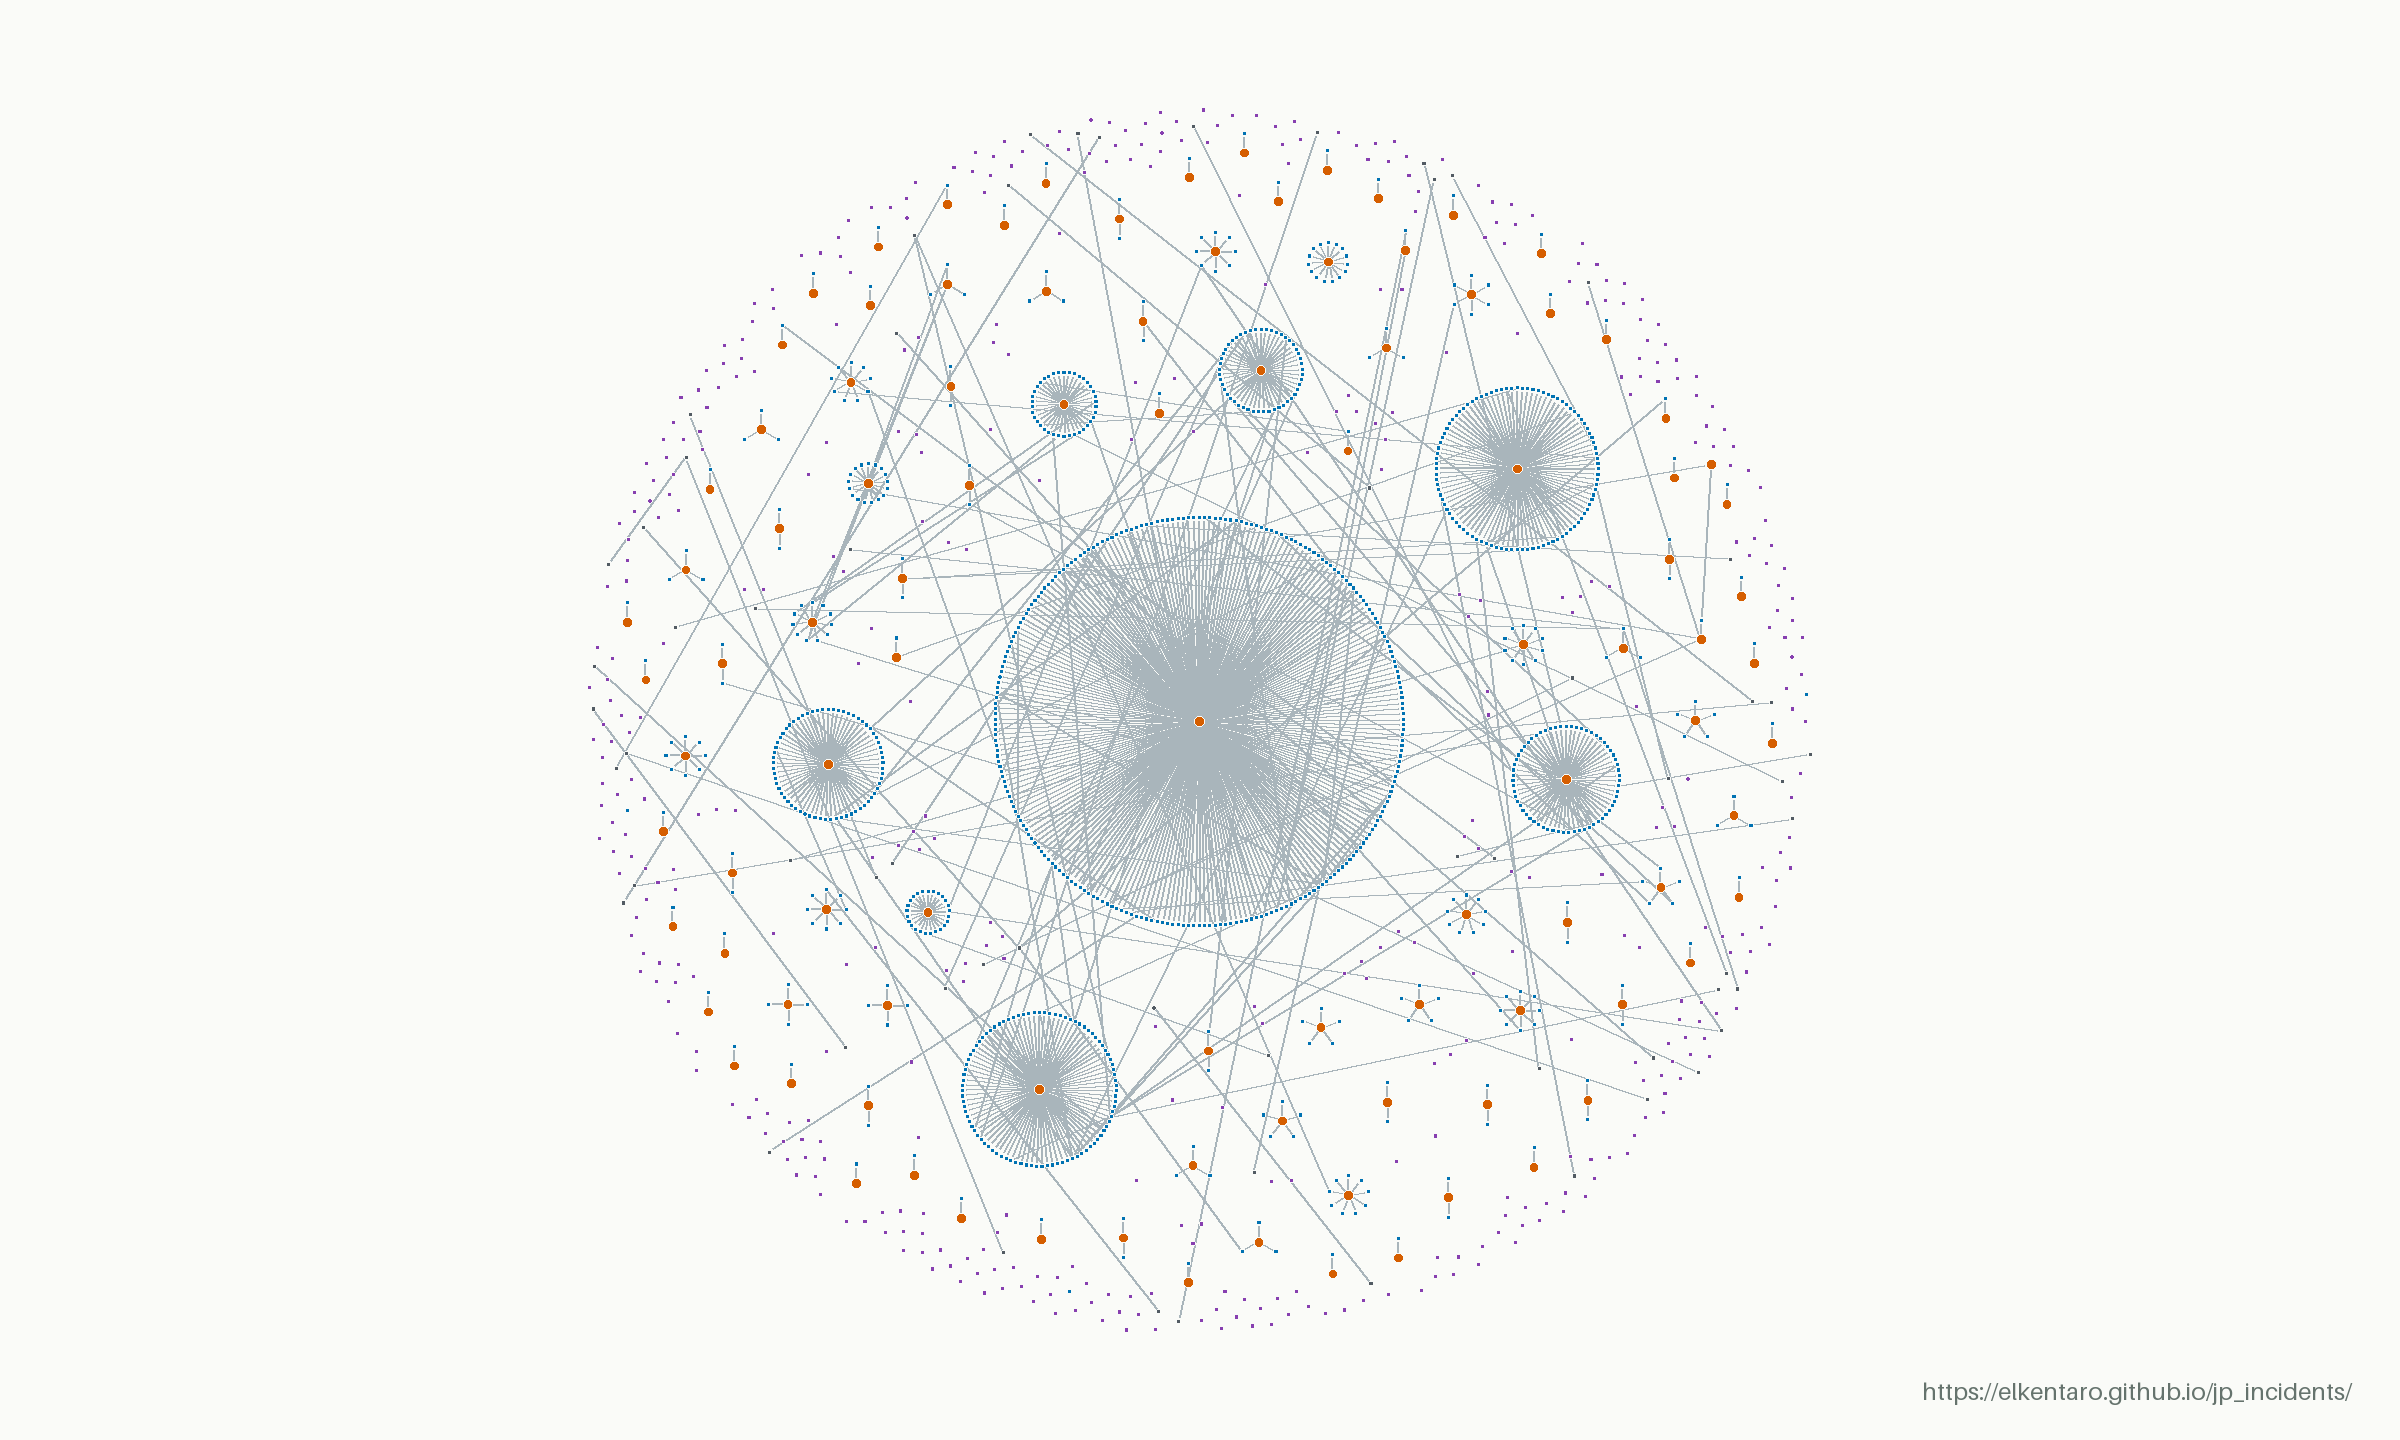
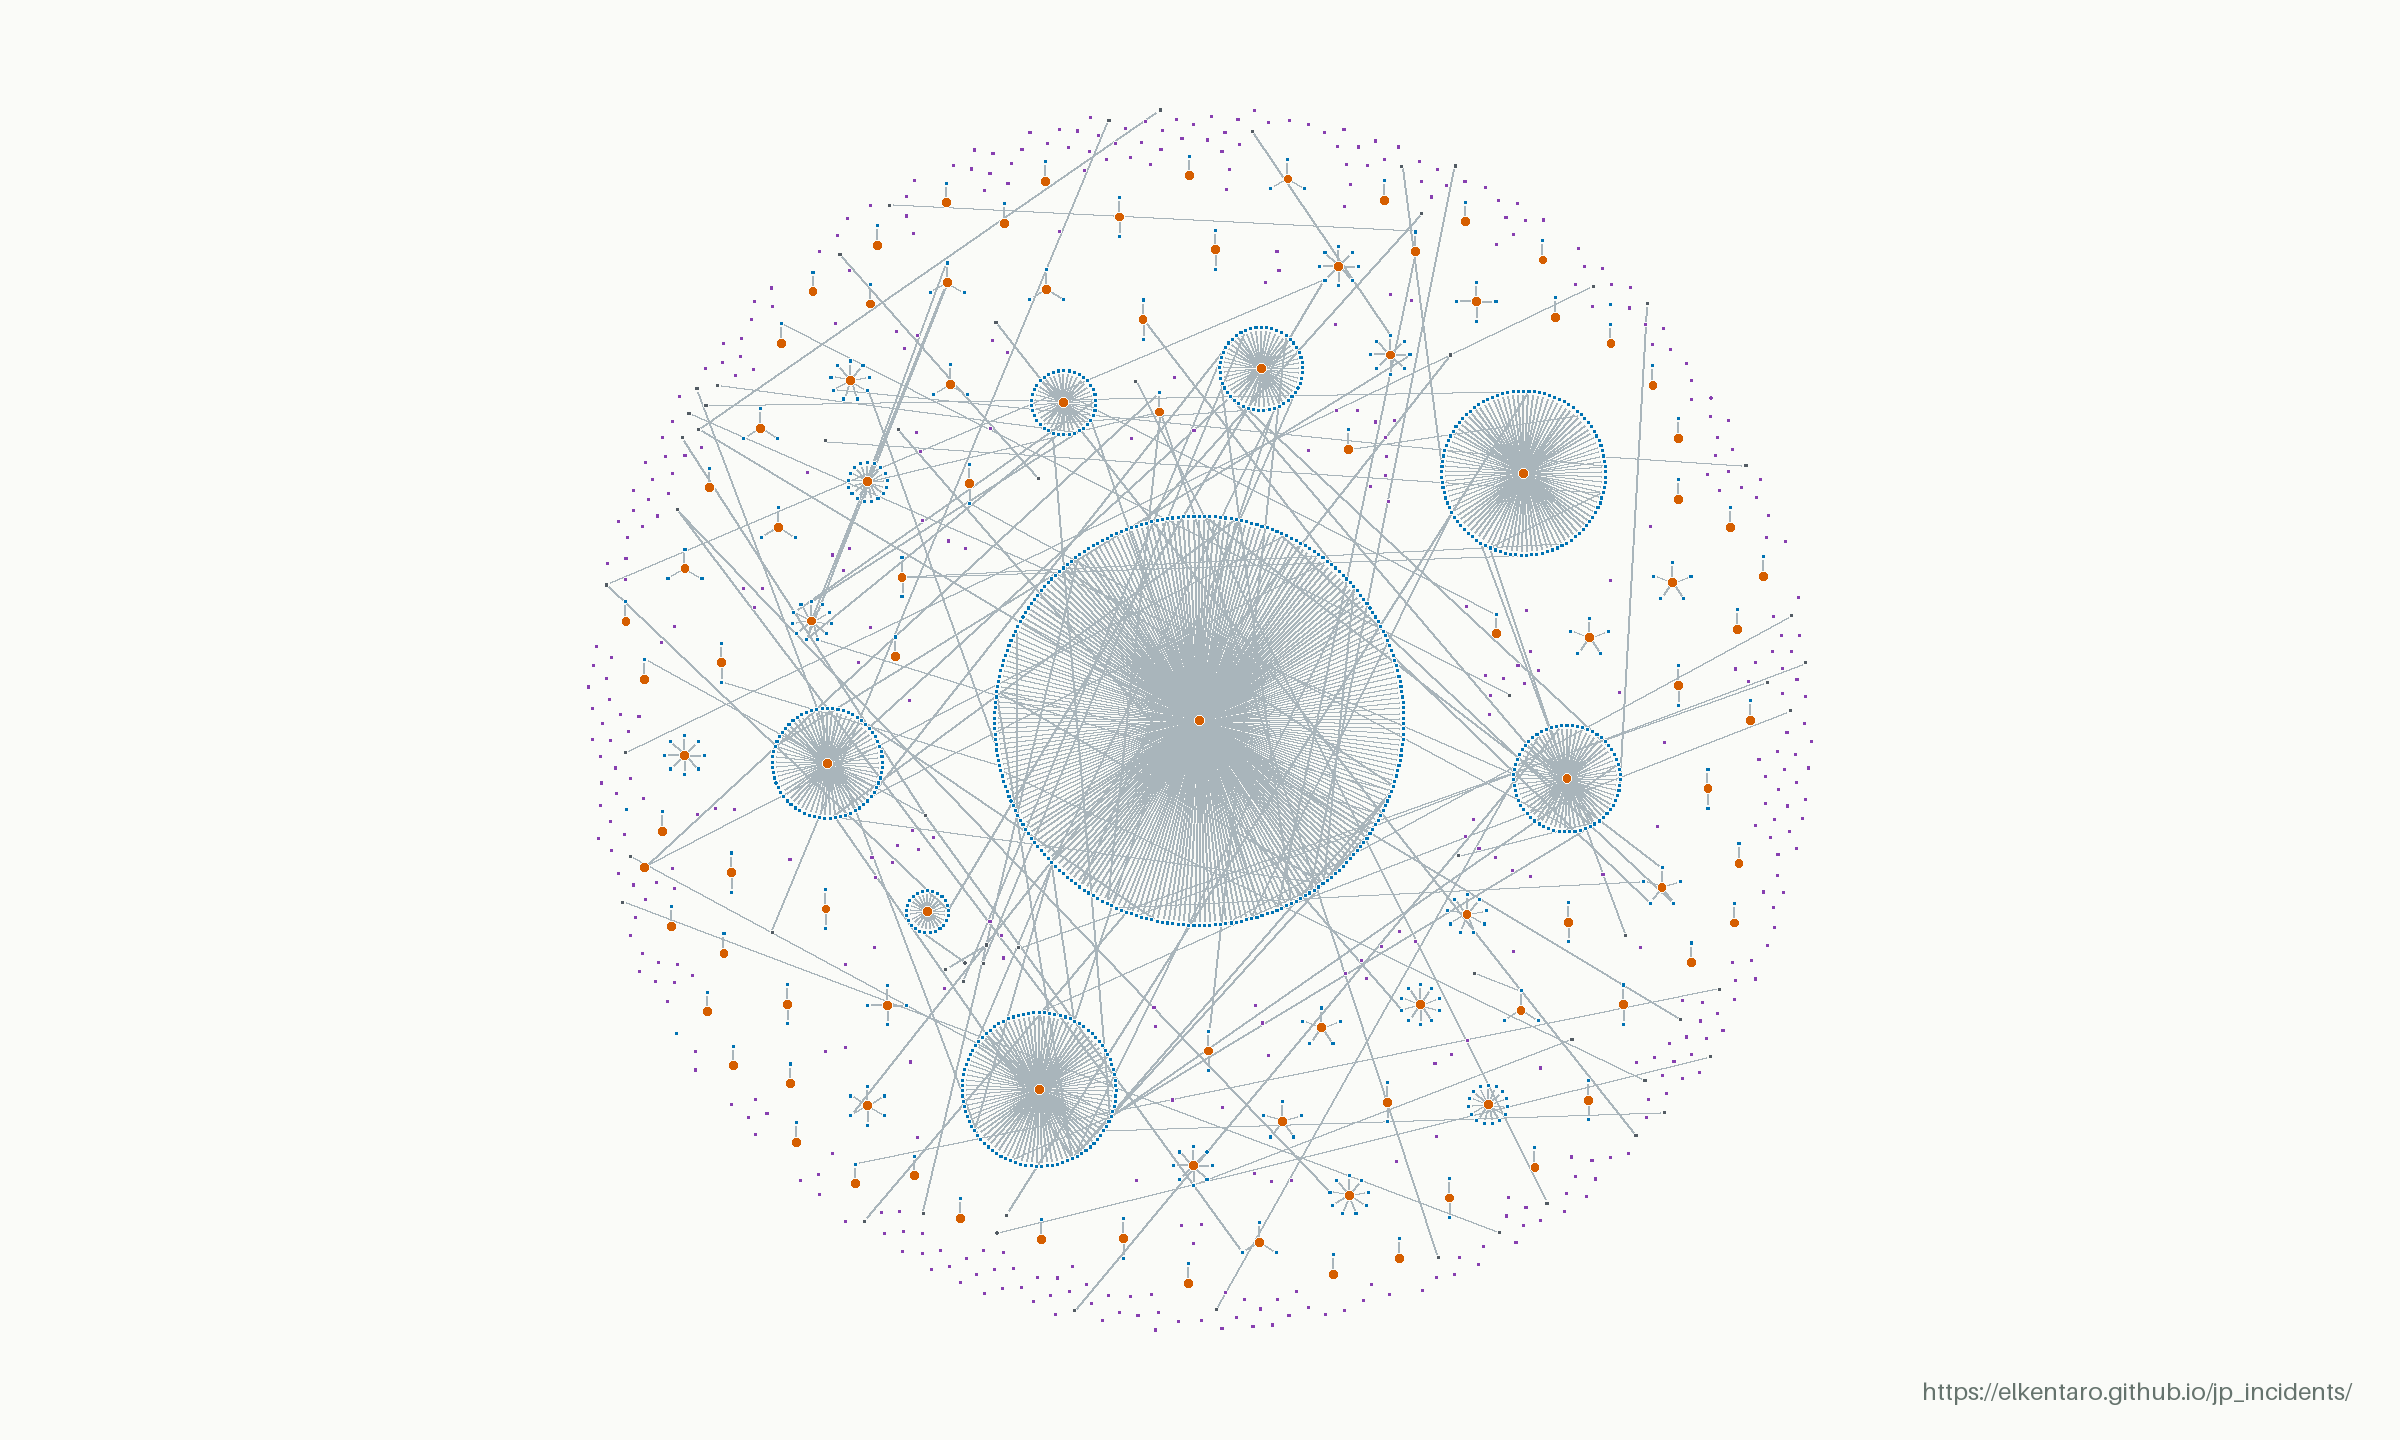
Update incident data (2026-11-21 11:17 UTC)

diff --git a/linkage.html b/linkage.html
@@ -32,17 +32,17 @@
     </section>
     <section class="direct-summary" aria-labelledby="direct-title">
       <dl class="direct-stats">
-        <div class="direct-total"><dt id="direct-title" data-copy="direct">Direct incidents</dt><dd id="direct-count">603</dd></div>
+        <div class="direct-total"><dt id="direct-title" data-copy="direct">Direct incidents</dt><dd id="direct-count">604</dd></div>
         <div><dt data-copy="directUpstream">Upstream incidents</dt><dd id="upstream-count">101</dd></div>
-        <div><dt data-copy="directStandalone">Standalone incidents</dt><dd id="standalone-count">502</dd></div>
+        <div><dt data-copy="directStandalone">Standalone incidents</dt><dd id="standalone-count">503</dd></div>
       </dl>
-      <p class="direct-excluded"><strong id="downstream-count">932</strong> <span data-copy="directExcluded">downstream records excluded, including incidents with both roles.</span></p>
+      <p class="direct-excluded"><strong id="downstream-count">933</strong> <span data-copy="directExcluded">downstream records excluded, including incidents with both roles.</span></p>
       <p class="direct-definition" data-copy="directDefinition">Direct incidents = upstream + standalone, based on recorded causal links. Standalone incidents have no upstream or downstream causal links, but may have other links, such as separate events at the same organization.</p>
     </section>
     <dl class="map-stats">
-      <div><dt data-copy="total">Incidents in snapshot</dt><dd>1535</dd></div>
-      <div><dt data-copy="linked">With recorded connections</dt><dd>1090</dd></div>
-      <div><dt data-copy="links">Recorded connections</dt><dd>1052</dd></div>
+      <div><dt data-copy="total">Incidents in snapshot</dt><dd>1537</dd></div>
+      <div><dt data-copy="linked">With recorded connections</dt><dd>1091</dd></div>
+      <div><dt data-copy="links">Recorded connections</dt><dd>1053</dd></div>
       <div><dt data-copy="networks">Connected networks</dt><dd>85</dd></div>
     </dl>
     <figure class="map-figure">
@@ -50,13 +50,13 @@
         <img src="data/linkage-map.png" width="2400" height="1440" alt="Anonymized incident map. Orange upstream hubs connect to blue downstream incidents; purple unlinked incidents appear throughout the same map without connecting lines." data-copy-alt="alt">
       </div>
       <figcaption>
-        <div class="map-caption-meta"><span><span data-copy="updated">Last updated</span>: <time datetime="2026-11-21T09:15:57.843104+00:00">2026-11-21 09:15 UTC</time></span><a href="data/linkage-map.png" target="_blank" rel="noopener" data-copy="open">Open full-resolution image ↗</a></div>
+        <div class="map-caption-meta"><span><span data-copy="updated">Last updated</span>: <time datetime="2026-11-21T11:16:18.978781+00:00">2026-11-21 11:16 UTC</time></span><a href="data/linkage-map.png" target="_blank" rel="noopener" data-copy="open">Open full-resolution image ↗</a></div>
         <div class="map-key-section">
           <strong id="map-key-title" data-copy="key">Key</strong>
           <ul class="map-key" aria-labelledby="map-key-title">
             <li><span class="key-dot upstream" aria-hidden="true"></span><span data-copy="keyUpstream">Upstream</span></li>
             <li><span class="key-dot downstream" aria-hidden="true"></span><span data-copy="keyDownstream">Downstream</span></li>
-            <li><span class="key-dot standalone" aria-hidden="true"></span><span data-copy="keyStandalone">Unlinked</span><span>(445)</span></li>
+            <li><span class="key-dot standalone" aria-hidden="true"></span><span data-copy="keyStandalone">Unlinked</span><span>(446)</span></li>
             <li><span class="key-dot both" aria-hidden="true"></span><span data-copy="keyBoth">Both roles</span></li>
             <li><span class="key-dot related" aria-hidden="true"></span><span data-copy="keyRelated">Other related</span></li>
             <li><span class="key-line" aria-hidden="true"></span><span data-copy="keyRelationship">Recorded relationship</span></li>
@@ -69,7 +69,7 @@
       <section><h2 data-copy="readingTitle">Reading the map</h2><p data-copy="reading">Orange marks upstream incidents, blue downstream incidents, and purple unlinked incidents with no recorded connection. Teal marks incidents with both upstream and downstream roles; charcoal marks other related incidents. A missing connection does not establish that two incidents are unrelated.</p></section>
       <section><h2 data-copy="snapshotTitle">About this snapshot</h2><p data-copy="snapshot">The static image is refreshed when published incidents or relationships change, and at least every 24 hours during normal publication. Larger upstream clusters have extra spacing to keep their victims apart. Names, incident IDs, source links and incident dates are omitted; the connection pattern is retained. It is an overview of recorded relationships, not a complete map of cyber incidents in Japan.</p></section>
     </div>
-    <p class="map-source"><span data-copy="sourceUpdated">Source data updated</span>: <time datetime="2026-11-21T09:15:57+00:00">2026-11-21T09:15:57+00:00</time> · <a href="./" data-copy="browse">Browse the incident index</a></p>
+    <p class="map-source"><span data-copy="sourceUpdated">Source data updated</span>: <time datetime="2026-11-21T11:16:18+00:00">2026-11-21T11:16:18+00:00</time> · <a href="./" data-copy="browse">Browse the incident index</a></p>
   </main>
   <footer><div class="shell footer-inner"><p data-copy="footer">Public reports. Recorded relationships. An anonymized overview.</p><a href="./" data-copy="back">Back to incidents</a></div></footer>
   <script src="linkage.js?v=20261107-spacing" defer></script>
